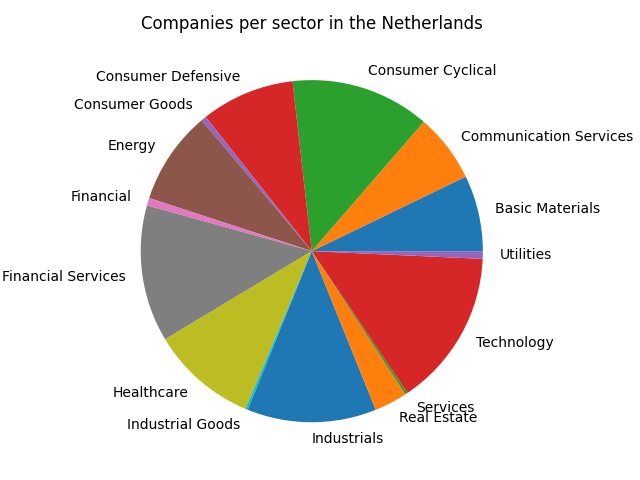
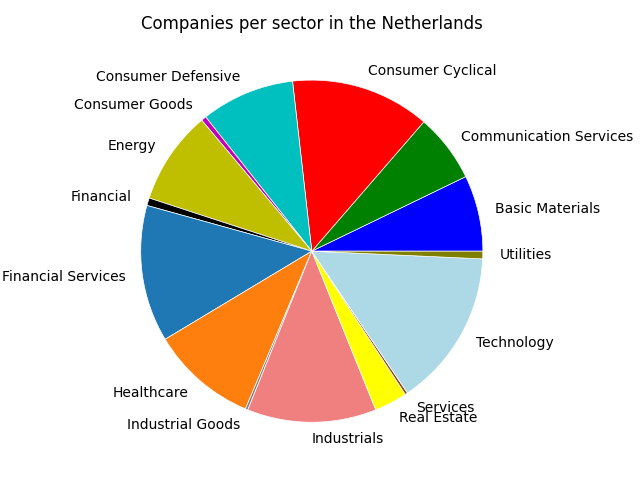
Make the show_options example a bit nicer

diff --git a/Examples/CountrySectorIndustryExample.py b/Examples/CountrySectorIndustryExample.py
@@ -1,7 +1,6 @@
 import FinanceDatabase as fd
 import matplotlib.pyplot as plt
 
-
 # Obtain all countries from the database
 equities_countries = fd.show_options('equities', 'countries')
 
@@ -24,7 +23,10 @@ for sector in equities_sectors[1:]:  # I skip the first sector since it means 'N
 
 legend, values = zip(*equities_per_sector_netherlands.items())
 
-plt.pie(values, labels=legend)
+colors = ['b', 'g', 'r', 'c', 'm', 'y', 'k', 'tab:blue', 'tab:orange', 'tab:gray',
+          'lightcoral', 'yellow', 'saddlebrown', 'lightblue', 'olive']
+plt.pie(values, labels=legend, colors=colors,
+        wedgeprops={'linewidth': 0.5, 'edgecolor': 'white'})
 plt.title('Companies per sector in the Netherlands')
 plt.tight_layout()
 

diff --git a/README.md b/README.md
@@ -101,10 +101,10 @@ package that requires symbols should work.**
 
 ### Companies per Sector in the Netherlands
 Understanding which sectors exist in a country can be interesting. Not only to understand the focus of the country but 
-also to understand which area holds the most data. This is also a demonstration of the show_option function. A function 
-crucial to query data from the Database.
+also to understand which area holds the most data. This is a demonstration of the ```show_options``` function. 
+A function crucial to querying data from the Database.
 
-Lets start by acquiring the countries, sectors and industries of equities:
+Let's start by acquiring the unique countries, sectors and industries of all equities in the database:
 ````
 import FinanceDatabase as fd
 
@@ -117,15 +117,15 @@ equities_sectors = fd.show_options('equities', 'sectors')
 # Obtain all industries from the database
 equities_industries = fd.show_options('equities', 'industries')
 
-# Obtain all countres + sectors + industries from the database
+# Obtain all countries + sectors + industries from the database
 equities_all_categories = fd.show_options('equities')
 ````
-This gives you the following lists (whereas all categories is a dictionary with these lists):
+This gives the following lists (where  ```equities_all_categories``` is a dictionary with these three lists):
 
 ![](Examples/CountriesSectorsIndustries.png)
 
-Then, let's see how many companies exist in each sector in the Netherlands. Let's count all 
-companies with the following code, I skip a sector when it has no data:
+Then, I want to see how many companies exist in each sector in the Netherlands. Let's count all companies with the 
+following code, I skip a sector when it has no data and also do not include companies that are not categorized:
 ````
 equities_per_sector_netherlands = {}
 
@@ -135,19 +135,25 @@ for sector in equities_sectors[1:]:
     except ValueError as error:
         print(error)
 ````
-Lastly, I plot the data in a pie chart:
+Lastly, I plot the data in a pie chart and add some formatting to make the pie chart look a bit nicer:
 ````
 legend, values = zip(*equities_per_sector_netherlands.items())
 
-plt.pie(values, labels=legend)
+colors = ['b', 'g', 'r', 'c', 'm', 'y', 'k', 'tab:blue', 'tab:orange', 'tab:gray',
+          'lightcoral', 'yellow', 'saddlebrown', 'lightblue', 'olive']
+plt.pie(values, labels=legend, colors=colors,
+        wedgeprops={'linewidth': 0.5, 'edgecolor': 'white'})
 plt.title('Companies per sector in the Netherlands')
 plt.tight_layout()
 
 plt.show()
-````
-This results in the following graph:
 
-![](Examples/CompaniesPerSectorInTheNetherlands.png)
+````
+This results in the following graph which gives an indication which sectors are dominant within The Netherlands. 
+Of course this is a mere example and to truly understand the importance of certain companies for the Netherlands, 
+an in-depth analysis must be done.
+
+![FinanceDatabase](Examples/CompaniesPerSectorInTheNetherlands.png)
 
 ### United States' Airlines
 If I wish to obtain all companies within the United States listed under 'Airlines' I can write the 
